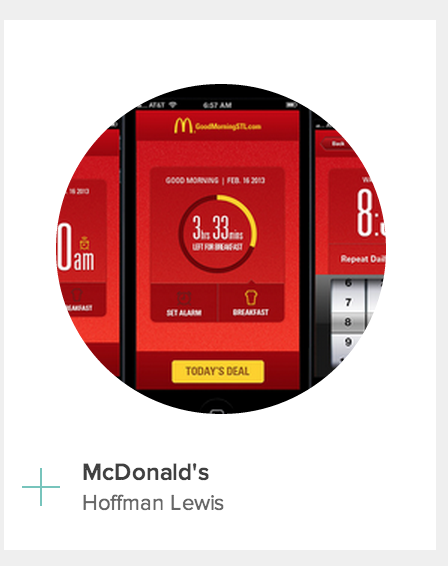
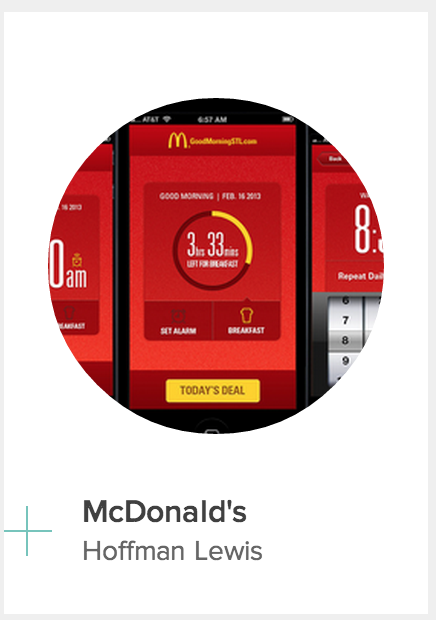
card module added

Changed region(s): [[0.0894, 0.1502, 0.8945, 0.7509], [0.1789, 0.7809, 0.5963, 0.9311], [0.0, 0.811, 0.1193, 0.9011]]

diff --git a/proto/css/main.css b/proto/css/main.css
@@ -894,6 +894,18 @@ h1, h2, h3, h4, h5, h6 {
     left: 0;
     top: 0.4375em; }
 
+/* line 1, ../sass/partials/card.scss */
+.card {
+  width: 33%;
+  padding: 1.5em 0;
+  border: 1px solid #ccc; }
+  /* line 4, ../sass/partials/card.scss */
+  .card img {
+    border-radius: 50%;
+    padding: 1.5em;
+    display: block;
+    margin: 0 auto; }
+
 /* line 1, ../sass/partials/modules.scss */
 body {
   padding: 2em; }

diff --git a/proto/sass/partials/card.scss b/proto/sass/partials/card.scss
@@ -1,0 +1,11 @@
+.card{
+  width: 33%;
+  padding: 1.5em 0;
+  img {
+    border-radius: 50%;
+    padding: 1.5em;
+    display: block;
+    margin: 0 auto;
+  }
+  border: 1px solid #ccc;
+}

diff --git a/proto/sass/main.scss b/proto/sass/main.scss
@@ -17,6 +17,7 @@
 @import "partials/main-nav";
 @import "partials/page-header";
 @import "partials/card-nameplate";
+@import "partials/card";
 
 // Pages
 @import "partials/modules";
